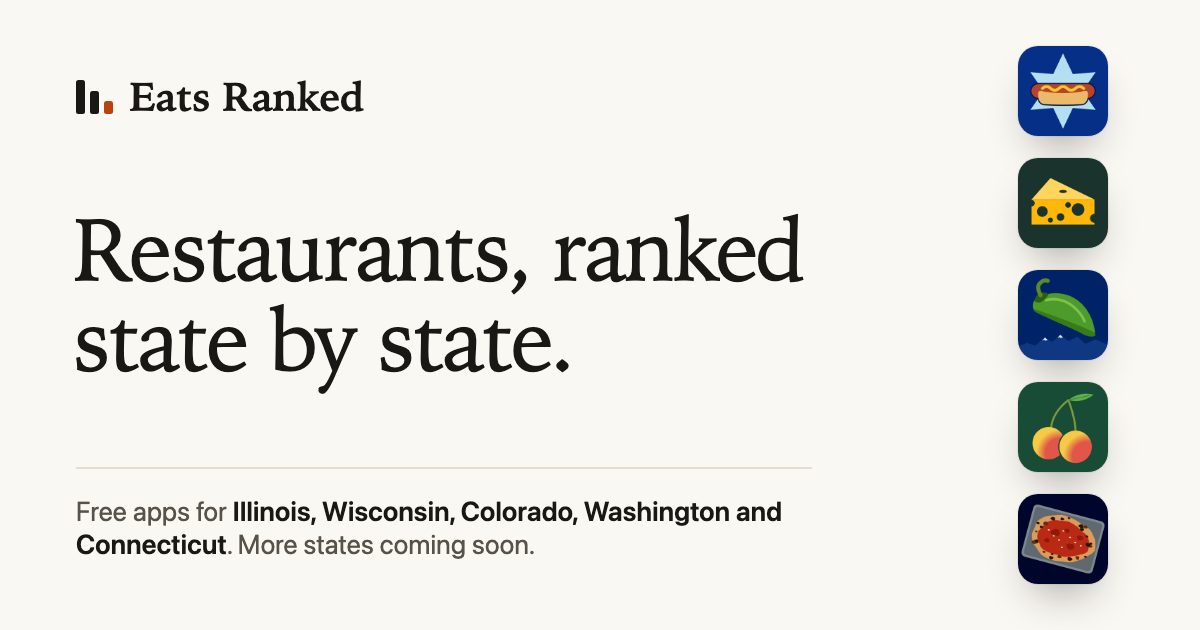
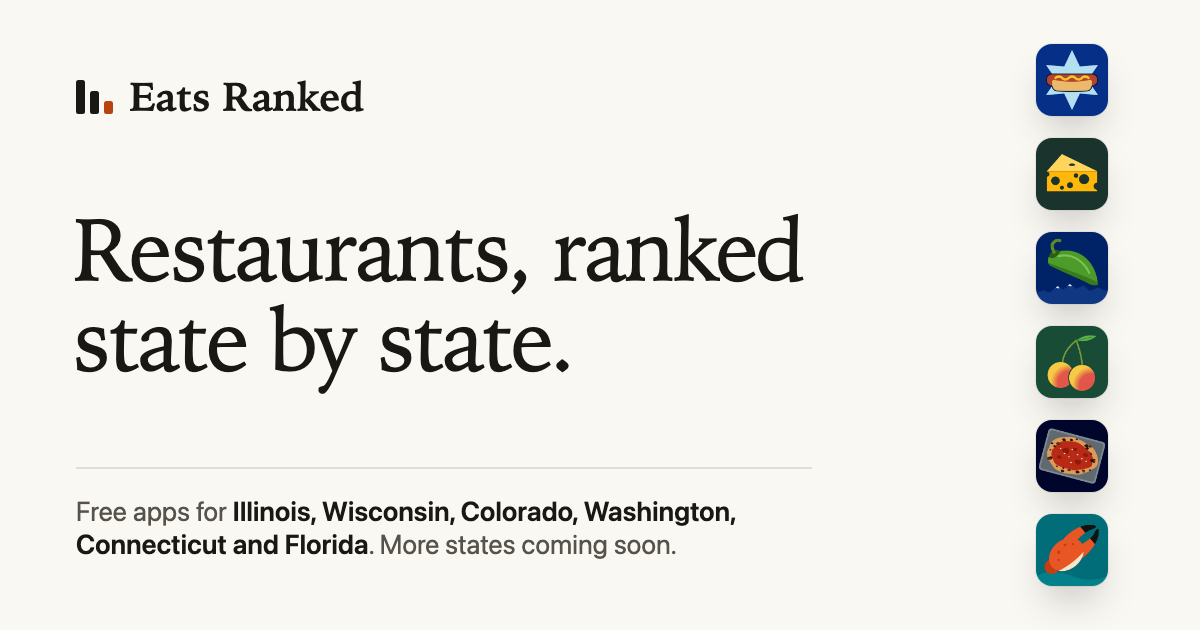
Florida: Florida Eats joins the hub
Card, map state and share image for Florida Eats: Restaurants (stone crab
claw icon, Gulf teal card #005F68 so the faintest card text passes 4.5:1).
Links to https://nickstrom5.github.io/florida-eats/ and its web search;
App Store: coming soon.

Changed region(s): [[0.8325, 0.0603, 0.925, 0.9349], [0.185, 0.8444, 0.555, 0.9048], [0.6167, 0.7841, 0.6475, 0.8444]]

diff --git a/docs/index.html b/docs/index.html
@@ -5,7 +5,7 @@
 <meta http-equiv="Content-Security-Policy" content="default-src 'none'; script-src 'self' 'sha256-qOhFsq0QMV2REqNwk5hGH5bZE9SkX6gt6yeyKdYPv+U=' 'sha256-N/fe+iuIbu+gMoSXR+XD1Gzu7bR5edsbTN507lK5oRE='; style-src 'self' 'unsafe-inline'; img-src 'self'; connect-src 'self'; manifest-src 'self'; base-uri 'none'; form-action 'none'; object-src 'none'; upgrade-insecure-requests">
 <meta name="viewport" content="width=device-width, initial-scale=1">
 <title>Eats Ranked: Restaurant Grades &amp; Rankings, State by State</title>
-<meta name="description" content="Restaurant apps from public records and open data: our own inspection grades where cities publish them, hand-checked local picks. Now in 5 states.">
+<meta name="description" content="Restaurant apps from public records and open data: our own inspection grades where cities publish them, hand-checked local picks. Now in 6 states.">
 <meta name="robots" content="index,follow,max-image-preview:large">
 <link rel="canonical" href="https://eatsranked.com/">
 <meta name="color-scheme" content="light dark">
@@ -18,18 +18,18 @@
 <meta property="og:type" content="website">
 <meta property="og:site_name" content="Eats Ranked">
 <meta property="og:title" content="Eats Ranked: Restaurant Grades &amp; Rankings, State by State">
-<meta property="og:description" content="Restaurant apps from public records and open data: our own inspection grades where cities publish them, hand-checked local picks. Now in 5 states.">
+<meta property="og:description" content="Restaurant apps from public records and open data: our own inspection grades where cities publish them, hand-checked local picks. Now in 6 states.">
 <meta property="og:url" content="https://eatsranked.com/">
 <meta property="og:image" content="https://eatsranked.com/og.png">
 <meta property="og:image:width" content="1200">
 <meta property="og:image:height" content="630">
-<meta property="og:image:alt" content="Eats Ranked: restaurants, ranked state by state, with the app icons for Illinois, Wisconsin, Colorado, Washington and Connecticut.">
+<meta property="og:image:alt" content="Eats Ranked: restaurants, ranked state by state, with the app icons for Illinois, Wisconsin, Colorado, Washington, Connecticut and Florida.">
 <meta property="og:locale" content="en_US">
 <meta name="twitter:card" content="summary_large_image">
 <meta name="twitter:title" content="Eats Ranked: Restaurant Grades &amp; Rankings, State by State">
-<meta name="twitter:description" content="Restaurant apps from public records and open data: our own inspection grades where cities publish them, hand-checked local picks. Now in 5 states.">
+<meta name="twitter:description" content="Restaurant apps from public records and open data: our own inspection grades where cities publish them, hand-checked local picks. Now in 6 states.">
 <meta name="twitter:image" content="https://eatsranked.com/og.png">
-<meta name="twitter:image:alt" content="Eats Ranked: restaurants, ranked state by state, with the app icons for Illinois, Wisconsin, Colorado, Washington and Connecticut.">
+<meta name="twitter:image:alt" content="Eats Ranked: restaurants, ranked state by state, with the app icons for Illinois, Wisconsin, Colorado, Washington, Connecticut and Florida.">
 <script type="application/ld+json">
 {
  "@context": "https://schema.org",
@@ -39,7 +39,7 @@
    "@id": "https://eatsranked.com/#website",
    "url": "https://eatsranked.com/",
    "name": "Eats Ranked",
-   "description": "Restaurant apps from public records and open data: our own inspection grades where cities publish them, hand-checked local picks. Now in 5 states.",
+   "description": "Restaurant apps from public records and open data: our own inspection grades where cities publish them, hand-checked local picks. Now in 6 states.",
    "inLanguage": "en-US",
    "publisher": {
     "@id": "https://eatsranked.com/#organization"
@@ -85,6 +85,11 @@
      "@type": "Organization",
      "@id": "https://nickstrom5.github.io/connecticut-eats/#org",
      "url": "https://nickstrom5.github.io/connecticut-eats/"
+    },
+    {
+     "@type": "Organization",
+     "@id": "https://nickstrom5.github.io/florida-eats/#org",
+     "url": "https://nickstrom5.github.io/florida-eats/"
     }
    ]
   }
@@ -494,6 +499,19 @@ details.tbl td.na{color:var(--ink-3);font-style:italic}
         </div>
         <div class="links"><a class="more" href="https://nickstrom5.github.io/connecticut-eats/explore/" rel="noopener">Search on the web<span class="sr-only"> with Connecticut Eats: Restaurants</span> <span aria-hidden="true">&rarr;</span></a></div>
       </article>
+      <article class="app" id="app-fl" style="--bg:#005F68;--ac:#F9C797;--fg:#FFFFFF" aria-labelledby="app-fl-h">
+        <div class="head">
+          <img class="icon" src="icons/florida.png" width="88" height="88" alt="Florida Eats: Restaurants app icon" decoding="async">
+          <div><p class="where">Florida</p><p class="plat">iPhone &amp; iPad · Free</p></div>
+        </div>
+        <h3 id="app-fl-h">Florida Eats: Restaurants</h3>
+        <p class="tag">Cuban sandwiches and cafecito windows, stone crabs, grouper shacks, oyster bars and fish camps we checked by hand, MICHELIN and James Beard honorees, and 52,000+ Florida restaurants with the state&#x27;s own inspection results.</p>
+        <div class="actions">
+          <a class="btn" href="https://nickstrom5.github.io/florida-eats/" rel="noopener">Website<span class="sr-only"> for Florida Eats: Restaurants</span> <svg class="ic" viewBox="0 0 14 14" aria-hidden="true"><path d="M4 3h7v7M11 3 3 11" fill="none" stroke="currentColor" stroke-width="1.8" stroke-linecap="round" stroke-linejoin="round"/></svg></a>
+          <span class="badge soon" title="Coming soon to the App Store"><small>Coming soon to the</small><b>App Store</b></span>
+        </div>
+        <div class="links"><a class="more" href="https://nickstrom5.github.io/florida-eats/explore/" rel="noopener">Search on the web<span class="sr-only"> with Florida Eats: Restaurants</span> <span aria-hidden="true">&rarr;</span></a></div>
+      </article>
     </div>
   </section>
 
@@ -501,16 +519,17 @@ details.tbl td.na{color:var(--ink-3);font-style:italic}
     <p class="eyebrow" aria-hidden="true">The map</p>
     <div class="sechead">
       <h2 class="h2" id="states-h">More states coming soon.</h2>
-      <p class="lede">Now in Illinois, Wisconsin, Colorado, Washington and Connecticut. We add one state at a time. Want yours next? <a href="mailto:nick@eatsranked.com?subject=Next%20state%20for%20Eats%20Ranked">Tell us which state</a>.</p>
+      <p class="lede">Now in Illinois, Wisconsin, Colorado, Washington, Connecticut and Florida. We add one state at a time. Want yours next? <a href="mailto:nick@eatsranked.com?subject=Next%20state%20for%20Eats%20Ranked">Tell us which state</a>.</p>
     </div>
     <div class="atlas" id="atlas">
       <div class="map" data-live="On the web now">
         <!-- State shapes: us-atlas (ISC License, Mike Bostock), from U.S. Census Bureau cartographic boundary files. -->
         <div class="stage">
         <svg viewBox="0 0 975 610" role="group" aria-labelledby="map-t" aria-describedby="map-d">
-          <title id="map-t">Map of the United States. On the web now: Illinois, Wisconsin, Colorado, Washington and Connecticut. Every other state is coming soon.</title>
+          <title id="map-t">Map of the United States. On the web now: Illinois, Wisconsin, Colorado, Washington, Connecticut and Florida. Every other state is coming soon.</title>
           <g class="land">
 <a class="st live" href="#app-co" id="st-CO" data-abbr="CO" data-name="Colorado" data-x="322.5" data-y="288.9" data-adj="KS NE NM OK UT WY" aria-label="Colorado: Colorado Eats: Restaurants, on the web now" aria-controls="pop-co" aria-expanded="false" style="--fill:#002868;--fill-dark:#FFD700"><path d="M277.1,237.2l8.8,1.2 15.2,1.9 19.8,2.3 3.9,.5 8.3,.9 14.7,1.4 3.1,.2 10.5,.9 9.4,.8 11.4,.9 13.1,.8-1.4,22.9-1.7,28.5-1.1,16.2-.5,10-.9,14.1-11.8-.8-5.4-.5-24-1.8-11.8-1.1-2.1-.3-19.3-1.9-12-1.3-.1-.2-10.7-1.3-13.7-1.6-14.2-1.9 1.2-8.6 .6-3.5 2-14.4 0-2.5 1.4-10.1 1.4-9.2 4.3-31.2 .4-2.7 1.2-8.6z"/></a>
+<a class="st live" href="#app-fl" id="st-FL" data-abbr="FL" data-name="Florida" data-x="784.9" data-y="518.4" data-adj="AL GA" aria-label="Florida: Florida Eats: Restaurants, on the web now" aria-controls="pop-fl" aria-expanded="false" style="--fill:#005F68;--fill-dark:#F28C28"><path d="M814.6,594.5l.9-1.4 .4,.6-.8,1-.5-.2zM812.7,596l.6-.9 .5,.5-1.1,.4zM807.4,599l3.6-2.3 .5,.5-3,2-1.1-.2zM793.7,604.2l1.1-2.2 3-2.2 1.6-1.5 1.1-.6 3,.8 .5,1 1.1,.6-3.1,1.6-.3-.4-2,.4-.1,.5-3.2,1.9-2.6,.7-.1-.6zM789.6,605.4l2.5-1-.3,1.1-2.2,.4 0-.5zM786.4,605.5l.4-.8 .8,0-.1,.9-1.1-.1zM777.4,558.3l.5,.3 1.9,3.8 2,.8 .5-.4 1,.3-1.6,.8-2.2-1.2-1.9-3.4-.2-1zM770.3,606.2l1.1-.4 .4,.4-1.5,.4 0-.4zM720.4,495.2l2-1.1-.3,.9-1.5,.7-.2-.5zM710.8,468.8l.5,1.4 1,1 .2,1.6 .7,1.4 1,.8 26.5-1.8 7.2-.5 17.9-1.2-.3,.5 .8,1.3 .1,1.4 .9,1.3 2.4-.4 .2-2.7-.1-1.9-1.1-2 0-3 1,0 .3-1.1 1.1,0 .6,.5 1.2-.1 1.8,.8 1.3-.2 2.3,.4 .9-.5 .9,.3 .4,.2 .1,2.2 .4,1.7 .6,.9 1.2,4.6 2.5,6.6 1.3,2.3 .4,1.7 2.6,4.8 3.2,5.2 2.1,3.3 6.5,8 3.2,3.4 1.5,2.6-1.1,1.3 0,2.3 .8,2.9 .8,1.8 1.6,2.6 3.3,4.7 2.7,5.1 1.3,2.5 2.5,3.9 .2,.6 1.8,3 2.1,4.7 .7,5.1 0,2.8 .3,4.1 .1,4 .7,5.5-.1,4-.4-1.2-.7-.4-.9,.8-.3,1.9-.4,.6 .1,1-.4,.9 .1,1.5 .5,1.5 .4,.2-.4,1.1-.7,.6 .2,.7 1.5-1 1.6-4.9-.2,2.5-1.8,4.6-.4,1.7-3.7,5.1-1.5,1.5-.3-.1 3-3.7 .4-1.1 .2-2.2-2.1-.1-2.4,.9-1.6,1.1-1.4-.6-1.3,.4-.4,.9-3.6,1-1.4-.8-.8-1.2 .1-2.5 .5-.2-1.4-2.6-1-.8 0-.7-1-1.3-.6-.2-.7-1.6-1.2,.2-1-1.9-1.8-.3-3.5-1.6-1.2,1.2-1.6-2.2-1.5-2.7-1.3-4.5-1-1.8-1-.9-2.3-1.1-.2-.9-1,.2 .3,.8-.9,.3-1.2-3.3-1-.9 1-.5 .8,.6 .3-3.1-.3-1.7-.7-.2 .1-1.5-.8,.2-1.1,1 1,2.7-2,.9-.2,1-.2-1.4-.6-.9-1.5-1.6-2.4-3.1-.9-1.8-2.3-3.2-2.9-2.9-1.3-2 .9,.8 .9-.7 1.1-1.8 1.7-3.7 .8-.5 .6-1.8-.6-1.3-1.6-.2 .7,2.1-1.8-.3 .4-.8-.7-1.9-2.9-1 .2,1.3-.7,.6 1.2,.6 .9,0 1.1,2-.6,.9 0,1.6-1.6,.5 .4,1.6-.5,.3-.4-2.1-1.3-1.7-.9-.6-.6-1.4 0-3-.5-1.2-.7-3.1 .6-.1 .2,1.7 .6,1.7 .6,.1-.2-1.7-.6-.5 .7-1.5 1-5.1 0-3.6-.6-1.2 0-1.1-1-.4 .2-.9-.9-2 .6-1.3-1.8-2 .2-.6-.7-1-.8,.1 .1-1.6-.5-.2-3.4,0-1,1.2-.9-1.8-.2-1.2-1.6-.3-.3-1.2-1.1-1.6-1.5-.2-.5-.8-1.8-.7-.3-2.1-.5-1.3-.8,0-1.7-.8-1.2-1.3 0-.6-1.3-1.6-1-.7-2.2-.9-2.9-1.1-2-1.2-1.9,.5-.6,.5-2.3-.3 .1,.7-1.7,1.6 .8,1.8-.2,.7-1.7-.1-.4-.4-1.6,.6-2.3,2.2-.5,0-3.6,2.9 .2-1.2-.8-.2-1.4,1.8-2.5,.2 1.1,.9 .1,.7 1.2,.3 4-2.3 1.7-1.8 .2,.2-1.5,1.8-4.9,3-3.7-1.7-1.4,0-1.2,.7-1-1.7-.7-2 .5-1.1 .3,2 .5,1.7 .6,.4 .6-.9-.1-1.6-1.5-2.2-.9-.8-1.7-.3-1.1-.7-1.3-1.2-2-.7-1.7-1.2-2.1-1.1-2.5-1-4.5-1.2-2.8-.4-5.3,0-2.3,.3-3.2,.8-4.5,1.4-2.2,.5-.5-.1-4.3,1.4 1-.6-.6-.3 .8-.7 .3-1.5 1.1-.6-.9-.5-.8-1.2 .8-2.8-.3-1-2.6-1.3-.5-.9-1.7-1.7 .7-2.3-.3-.7 8.8-.9 12-1 12.1-1.3 17.2-2z"/></a>
 <a class="st live" href="#app-ct" id="st-CT" data-abbr="CT" data-name="Connecticut" data-x="888.3" data-y="189.1" data-adj="MA NY RI" aria-label="Connecticut: Connecticut Eats: Restaurants, on the web now" aria-controls="pop-ct" aria-expanded="false" style="--fill:#000E2F;--fill-dark:#B3261E"><path d="M871.2,184l7.8-1.7 3.2-.7 .1,.9 .8-.4 0-.7 15.6-3.7 .1,.3 2.2,7.8 1.2,5.3-.6,.3 .5,1.4-.4,.7-1.5,0-1.1,.8-1,.2-.7,.6-.9-.3-.4,.8-2.6,1.4-1.2-.1-1.4,1-.5-.3-1.7,.5-.2,.6-1.1-.3-2.4,1-.3-1-1.2,2.5-.7,0-.9,1.7-.9-.2-1.1,1.4-.5-.1-1.3,.8 0,1.1-1.7,.7-1.2,1.4-.4-.3-.7,.9-.1-.6-1.7-1.7 3.4-3.4-1.6-1.6-1.2-7.3-1.7-9.7z"/></a>
 <a class="st live" href="#app-il" id="st-IL" data-abbr="IL" data-name="Illinois" data-x="611.6" data-y="266.9" data-adj="IA IN KY MO WI" aria-label="Illinois: Chicago Restaurants: Ranked, on the web now" aria-controls="pop-il" aria-expanded="false" style="--fill:#0E3386;--fill-dark:#B3DDF2"><path d="M576.5,264.7l.7-.3 .1-2.5-.8-1 .9-1.5 1.7-.8 1.1,0 1-.8 .3-2.3 0-1 1.5-2.3 .6-.4 .2-2.6-.1-1.3-.8-1.3-.9-.2-1.3-1.7 .6-1.5 .3-2.4 1.2-.6 .8,.2 1.2-.7 2-.1 1.3-.3 1.1-1.3 2.1-.3 .8-1 1.1-.6 0-2.1 .3-1.3 .6-.8 1.4-.9 .5-2.4-.3-1.2 .4-1-.5-.9-.1-1.7-.9-.8-3-1.4-.8-1.2 .2-1-1-1.2-1.3-.7-.4-.7-1.3-.6 0-.8 9.4-.6 13.7-.7 7.7-.4 11.1-1 5.3-.3 .1,2.4-.3,2 .7,2 1.2,1.8 1.3,1.5 .1,.6 1.2,3.1 .3,1.4 1.5,2.6 .8,9.4 1.7,19 1.2,14.9 1,10.5-.8,.3-.3,1.8 .6,1-1,1.2 .3,1.4 1.1,1 0,1.6 1.3,.7-.5,2.2 1.1,1.8-.3,1.9-1.2,.8-.4,.6-.5,2.3 .1,.8-1.4,.9 .3,.6-.8,1.8-.4,.2-.7,2.1-.5-.6-.4,.8-.4-.6-.8,2.1 1.1,1.5-.7,.2-.6,1.2 .8-.4-.1,.7-1.2,.8 .6,1.4-.8,1.3 1,.5-1.5-.1 1.4,2.3-.5,1.5-1,.7-.6,1.2 .6,1.9 1.4,1.3-.3,1-3.5,.7-1.3,1.3-.9-.5-1.1,1-.5,2.4 1.3,1.8 .6,1.1-.5,1.8-1.6,.2-1.6-1-1.8-.4-1.4-.9-2.3-.7-1.3,.1-1.4,1.5-.3,1.1-.8,.7-.3,1.6 .9,.8-1.1,.2-.1-.8-1.2-1.1-.9,0 .9,1-.2,.8-1.9-1.1 0-.9-1.7-2.6-.1-1.2-1.1-.8 .5-1 .9-.4 .2-1-.4-1.1-1.5-2.1-.2-1.1 .8-.3-.8-.9 0-1.2-1.3-.5-.7-.8-.9-.2 .1-.6-1.5-1.3-.7-.1-1.2-1.1-1,.9-.9-.3-.4-.8 .8-1-1.3,.1-1.2-1.2-.5,.1-.8-1.1-.8-.1-1.3-.9-.6-1-1.5-1.2-.4-1.5 .4-2.4 .8-1 .5-2.4 1.1-1.7 .1-1-.7-1.8 1.5-1.8 .1-1.2-2.5-1.4-1-.1-2.6-.8-1.5,2.2-.7,.2-1.4-1.2-.4-1.7-.7-1.2 .5-.9-1-3.6-2-2-3.6-2.3-1.2-2-.8-.1-.7-1.3-1-.5-2.3-2.2 0-1.5-1.2-.9-.4-.9 .5-1.2-1.5-2.4-.3-2.1-.1-2.5 .7-2.4 .7-.9z"/></a>
 <a class="st live" href="#app-wa" id="st-WA" data-abbr="WA" data-name="Washington" data-x="130.4" data-y="59.1" data-adj="ID OR" aria-label="Washington: Washington Eats: Restaurants, on the web now" aria-controls="pop-wa" aria-expanded="false" style="--fill:#1F4D3A;--fill-dark:#F7C948"><path d="M93.2,50.9l.8-1.9 .9-1.2 .4,1.1-.5,1.3 .9,.7-1.5,.6-1-.1 0-.5zM98.7,24.6l.3-.8 .8,1.1-1,.2-.1-.5zM98.9,20.3l.3-.1 .8,2.5-.7-1.1-.4-1.3zM97.7,23.5l.5-.5 .4,1.1-.9,.4 0-1zM95,31l2.2-2.3 .5-1 .8,0 0,1.4 .8,1.5-.8,.1-.5-.5-2.2,1.4 1.3,.1 .3,1 .1,1.6-.3,.3-.1,2 1.2-1.5 .6,1.3 .7,.5-.1,1.8-.8,1-.6-.5-.2-1.7-1.2,.1 .2-.6-.7-1 .6-1.7 0-1.2-.9-.1-.9-2zM95.5,17.9l2,1.8-1.4-.7-.6-1.1zM93.6,19.6l1-.3-.1,.7-.9-.4zM95.2,13l.9,.8-.9-.2 0-.6zM91,21.2l.5-.4 1.1,.3 .5,1.4 .9,.4-.6-1.5 2.5-1.5 .6,.2 1.6,1.7-1.2,.6 .2,1.4-.4,1.1-.7,.3-.4,1.4-.9-.1-.5-1.2-1.6-.4-1-1.1-.6-2.6zM91.1,19.1l.7,.3 .9,1.4-1.6-1.7zM183.6,35.9l-3.1,13.7-2.2,9.1-3.8,17.1-3.7,16.6-.7,1.7 .8,1.5 .4,2.9-.9,1.4 .1,2.5-18.6-4.4-13.2-3.2-.4,.4-2.1,.5-1.9-.6-3.8-.2-1.1-.7-.9,.2-1,.9-2.1-.3-2.6-.1-1.9,.4-1.6,.1-.9,.6-3.1-.1-1.5-.5-.6-1-1.2-.5-1,.4-2.8,.3-.7,.5-.7-.5-2.2-.4-1,.6-.8-.1-.1-1.6-1.6-1.2-1.1,0-1.8-1.3-3.3-.1-1.1-.6-.9,0-.9,.7-3.4,.7-1.3-.2-1.1,.4-1.3-.4-.6-.8-1.4-.5-2.8-1.7-1.1-1.3 .7-2.7-.2-.8 .5-1.2 .1-2.1-.5-1.8-.1-1.3-2.5-3.1-.8-.3-2,.4-1.3-.4-.7-1.1 .4-1-.6-1.1-1-.1-1.8-.7-.6-1-.7,.4-.7-.4-1.3,.7-.5-.3-.7-1.7-.5-.3-1.2,.7 1.1-2.4 .7-2.3 .7-3.1 .4,1.3-.7,1.8-.5,2.6 .9,.3-.1-1.6 .4-1.1 .5,.6 1.1-1-.3-2.5 .8-.6 1.7-.6-.7-1-.5,.4-1.5,.2-1.1-1.4 .4-1.4 0-2.2 .7,.3-.2,.7 2-.7 1.9,0-.4-.7-1.6-.9 .1-.9-1.3-.7-.6,.3-.1,1.8-1,.1 1.1-3 .3-2.4 .2-2.6-.8-1.9 .7-4.2 .3-4.7-.6-.7 .2-1.1-.8-1.4-.7-.7-.2-1.9 .7-2.9-.2-1.8 .5-.1 1.6-3-.7-1.4 1.2,.2 1.1,.9 2.2,2.6 1.3,1.1 .6,0 1.7,1.6-.2,.3 1.6,1.3 1.7,.8 2.4,.4 1.4,1.2 2.3,.5 .5,.8 2.1,.6 1.6-.7 1.1,1.4 .2,.9 1.8,.3-.3,.5 .6,.7-.3,1.1 .6,0 .5-.9-.6-.9 .2-.7 1.9-.2 0,.6-.9,.4 .2,1.1 1.4-1-.1,2-.9,0 .4,1.2 0,1.3 .6,.6-1.4,0-.1,.8-1.1,.4-.5,1.2-1.2,1.2-.2-.4 1.2-2-.9,.1-1.4,2-1.5,1-3,2.8-1.4,2 1.9,.7 2-.3 .8-.6-3.1,.4-.8-.8 3.5-3.5 2-1 1.7,0 .6-1.3 1.2-1.1 1.5-1 .5,.2 .1-2 .9,1.1-.4,3.7-1-.3 .4,.9-.5,1.3 0,1.4-.9,.5-.3,.7 .7,.5-.8,.7-.7,1.6 .1,.4-.9,1.1 .1,.9-1.2,1.2-1-1.8 .9-1.7-1,.5-.7,1.1 .1,1 1,1-.6,.1-.8,1.4-.7-1.2-.5-2.3 .8-.5 .4-1.1-1.5,1.2 0,1.5-.6,.8 .8-.1 .2,1.4 1.4,.8 1.1-1.1 .6-.1 1.7-2.2 0-.6 1.1,1.5 .6-1 1.6-.3 .3-3-.3-2.3 1.4-.4-1-1.4 1.3-1.3 .2-1.8 1-.6 1.1-2.1 1.4-.3 .2-1.1-.6-.7-.8-2 .5-1.3-.3-1-.8-.3-.6,.8 .1,1.4 .8,1.8-1.1-1.9-.7-.3 0-1.1 .5-1.4 1.1-.2 .7,.6 .7-.6-.3-1-1.2-1.2-.4-1.1 .2-.7-1.6,.1-.4-1.1 .5-1.1 1.1,0 .6,.5 .2,1 1,.2 .1-2.1 .9,.1 .5-.6-.8-1.5 .1-1.3 .7-.7-.5-.7-1-.2-1.3,.5 .6-.8-.8-.5 .2-1.5-.7-.9 .9-.8-1-.5 1.2-1.1 9.6,2.7 5,1.5 7.6,2 7.5,2 10.4,2.8 12.7,3.2 13.7,3.3 17.1,4z"/></a>
@@ -518,7 +537,6 @@ details.tbl td.na{color:var(--ink-3);font-style:italic}
 <path class="st" id="st-AL" data-abbr="AL" data-name="Alabama" data-x="674.1" data-y="441.0" data-adj="FL GA MS TN" role="img" aria-label="Alabama: coming soon" d="M648,492.4l3.8-.9 .1-.5 1,.8-.6,.5-.7-.2-2.6,.5-1-.2zM641.6,384l-.1-.3 14.4-1.1 10.6-.7 18.7-1.9 4-.3 .7,2.7 3.4,11.6 9.2,33 .6,.4-.2,.7 1,.8 .6,2.9 .8,1.3 1.4,1.2 .4,1.6 .7,.6-.5,2.3 1.4,.4 .9,.7-.7,1.1-1.4,1.1-.8,1.1 .4,1.1 0,1.7-.2,1.7-1,2.4 .7,2.4 0,.8 1.5,1.6 .5,2.2-.4,1.2 .2,.9-.3,1.6 .2,1.5-.4,.5 .4,2 1.6,1.6 .9,2.4-17.2,2-12.1,1.3-12,1-8.8,.9 .3,.7-.7,2.3 1.7,1.7 .5,.9 2.6,1.3 .3,1-.8,2.8 .8,1.2 .9,.5-1.1,.6-.3,1.5-.8,.7 .6,.3-1,.6-2.6,.9-3.5,.8-2.4,.2 .4-.8 .9,.4 2.4-.7 .2-.7-1.9-1.8-1.3-.6-.7-1.7 .5-1.2-.3-1.8-.6-.9-1.4-.5-1,1 .2,.7-.7,2.4 .2,3.1-.5,1.3-1.1,.2 0-.8-1.4-.6-1.1,.4-.3-.4-1.2,.5-1.4-11.2-2.4-18.8-.5-4.5 .3-11.1 .5-30.7 .4-17.1 .3-9.9-1.1-.6-1-1.6z"/>
 <path class="st" id="st-AK" data-abbr="AK" data-name="Alaska" data-x="106.6" data-y="509.9" role="img" aria-label="Alaska: coming soon" d="M104.2,551.6l.4-1.3 .5,.2-.9,1.1zM99.1,569.9l.4-.6 .6,.4 0-1 1.7-1.3 .6-.8-.2-.7 1.2-.7-.5,2.3 .6-.5 .9,.9 .6-.4-.3,1.6-1-.5 .2,.6-1.4-.3-.2,1-1.4,.6-1.8-.6zM95.1,582l1.2-.6 .6,.9-1.2,.1-.6-.4zM93.3,575.4l.7-1.1 1.7-1.2 1,.1 .4,1.2 .2-1.2-.4-1.3 .9-.6 .7,.4 1-.1-.5-.9 1.5,.8-.8-.8 1.7,.2-.1,.7 .8-.1 1-.9 .8,1.7-.7-.2 0,1.4 1.3-.2-.7,1.6-1.8-.6 .6,1-.9,.9-1.5,.7 1.3,.2-1.5,.6-.3,.7-.5-.7 .3-.9-1.5,2.6-.9,.8-1.1,.2 1.3-1.6-.5-.1 .7-1.6-2.1,2.5-1-1.2 0-1.5-1.1-.8 0-.7zM93.1,582.8l1.2-1.3 .7,.4-1.6,1.2-.3-.3zM88.9,587.6l.7-.7 0,1.2-.7-.5zM71.8,593.7l.1-.9 .5,.7-.6,.2zM71,591.7l.7-.5-.1,1.7-.6-.1 0-1.1zM68.2,593.5l.8-.9-.4-.6 .6-.6 1.1,.3-.3,.6-1.8,1.2zM65.8,590.1l.7-.6 1.7,.6-.2,.8-.8-.8-.1,1.7-.7-.7-.5,.5-.1-1.5zM67.5,564.2l.2-.9 1.6-.8-1,1.8-.8-.1zM60.9,591.2l.4-.4 1,.7-.8,.3-.6-.6zM58.3,592.4l.9-.2-.5,1.1-.4-.9zM66.1,523.9l1.2-.2 0,.6-1.2-.4zM56,595.9l0-.3 2.1,1.1-.6,.3-1.5-1.1zM44.6,597l1.3-.1-.1,.5-1.2-.4zM42.7,595.5l.3-.4 .9,.9-.8,.7-.4-1.2zM40.6,595.9l1.2-.3 .7,1.1-1.8,.1-.1-.9zM44.2,547.5l2,.4 1-.8 1.3,0 1-.4 .1,.9 .8,0 .5,.9 .1,2.7-1.8,.1-.8,.7-.7-.9-.9-.2-2.4-2.2-.2-1.2zM31.3,600.8l2-.6 .5,.2 2.1-1.9 .8,.6 .2-.6-1.1-.4-.4-.6 .7-.8 1.8-.2-.1,.7 .7,.3 .7-.7 .6,.7-1.8,1.4 2.1-.7-.1,.6-.9,.6-1.3,.2-1.2,1.3-1.8-.3-.9,.5-1.7,.4-.9-.7zM50.7,504.5l2.2-.8 2.6-1.4 3.6-1.6 2.1-.7 2.7-.5 1.8,.2 0,1.1-.8,2 .3,1.1 2,.3 1.3-.1 1.1,.7 .9-.3 .9,.6 1.1-1.7 1.8,.3-.4-.9-1.2-.6-1.3,.3 .3-1.3-1-1.8-.7-.2-.3-1 1-.6 .8,1.4-.3,1.1 1.4,1.8 .8-.2-1.5-2.1 .4-1.3 .9-.7-.8-.6-2.2,.3-3.7-1.7 .2-1-.5-2.3-3.3-4.4-1.5-1-.6-1.2-1.4-1.3 1-.2 .6-.9 .5-2.5 2.5,.6 3.2-.1 2.3-1.3 1-1.2 .6-2.3 .6-1.5 2.3-2.8 1.3-.8 1.5,.4 1.4-.5 1.7-1.2 1.7-1.7 1.3-.5 1.3,.8 2.5-.6 .9-.7 1.7-2.3 .8-.1 2.4,1.1 .2,.5-1.3,1.1 .1,.9 .8,.2 .4-.9 .9-.7 .4-.9 1,.9 .1,1.6 1.1,.4 .8-.9 1.7-.3 2.7,.7-.6,1.1 .1,.6 1.9,.4-.4,1 2,.3 .5-.6 1.5-.1 .1,.4 2.4-1 1.9,.7 .5-.2 .8,.9 .3-.4 1.5,1 1.5,.2 .7-.3 2.8-.1 1.4,.8 1.3,.4 .9-.2 1.9-1.4 1.6-.5 5.6,2.6 1.3,.1 14.4,72.7 1.9,.2 .1-.7 2.1,.6 .8-1.5 2.3-.6 .1,2.2 .8,.6 1.4,.3 .6,1 4.9,3.2 1.3,2.4 2-2.6 .9-.3 .2-1-.4-1.4 .7-.2-.5-1 1.4-.9 1.5-1.5 2.3,1.3 .1,1.1 .8,1 1-.1 1.8,1.2 .9,1.2 1.9,.5 2.6,1.7-.3,.5 1.7,1.4 .8,1 1.2,.9 2.1,2.2 2,1.7-.2,1.1 1.4-.1 .2,1.4 1.2,.2 .7,1.5 1-.5 2.6,.8 1.4-.1 1.6,.4 .5,.7 1.4-.3 .8,1.4-.1,1.3 .7,1.3 1.4,2-.5,3.3-1,2-.7-.6-.4,.5-1.9-2.8 .7-1.1-.6-1.8-.9-1.5-.8-.4 1.3,1.7 .3,2.3-.3,.9-1.2,.1-1.5-.5-1-1 .2-1-.5-2 0,1.9-.5,.5 .3,.9-1.1-.3-.5-.8 .2-1.2-.4-1.6 .1-1.3-.6,1.3 .4,.7-.9,1-.9-1.3-1,0-.3-.8 .5-1.1 .8-.4-.6-1 .8,0-1.9-.9-.3-.9-1.1-.3-1.4-1.2-2.5-.4-.1-1.4-.8-1.7-.8-.1-.1-.7 2.2,.4-2-1-.6,.1-2-1.6-.6-1.7-.1,.7-2.1,.3-1.2-1.7-2.2-2.3-1.3-2.5-1.2-.7-.3,.5 1.4,1.1 .4,1.2 1.6,2.1 1.3,3.2-1.4-.3-.6-.9-.9,0-1,.7-.5-1.8-1.1-1.3-.5,.6-1.2-.4-.4-.9-.4,.7-.9-.3-.1,.5 1.3,.1 1.4,.9 .6,0 1.3,2.1-1.2,1-.7,0-.4,.9-1.4-1.1-.6,.2-2.2-1-1.8-1.1-.2-.7-1.8-1.1-1.5-.3-1.3-.6-2.2-.6-2-.9 .3-.9 .6,.1-.6-2 .1-1.4-.6,1.9-1.8,1.5-2.4,.1-2.3-.7 .5-1-1.3,.5-3.8-.3-1.1,.1-5.3,1.6-1.3,1.8 .4-1.2 .8-.9 .6-.1-1.1-.8-2.4-.1 .6-.5-.9-.2 .3-1.1-1.5,1.2-2-1-.8,.2 .8-1.1-1.4,1.1 .1,.8-2.2,.9 .1-1.6 .6,.1 2.4-1.3-.5-.9-1,.8 .5-1-1.7,.7-.9-.4 1.9-1.1-1.4,.5-.8-1.1 .3-1.3-1.2,1.6-.5-1.4-.3,1.5-.7,.5-.5-.6-.8,1.2-1.6,.3 .6-2.2-.8,.1-.6,2.4 1,.2-.7,2.1 .9-1 .7,1.2-.6,1.7 1.4,1.3-.8,1-.9,.1-.5-1.6-.2,1.6-.8,.3-1.9-.4-1.1,1.1 .3-1-.5-1.1-.1,1.6-1.1-.2 .2,2.5-1.2-1.1 .4,.9-1.6,2.1-.3,.1-.5-1.4-.2,1.3-.5,0-1,1.7-1.2,.1-.4-.5-.8,1-.6,0-1-.7 .4-1.3 1.4-.6 2.1-2.5-.5,.1-1.5,1.2-1.5-1 .5-2.1 1.2-1.6 .4-2.6-.6-1.4 1.4-.6 2.4-2.1 .8,1.1 .8,.2 .8-.9 2.6,.6-2.5-1-1.4-1 1.3-1.9 1-.6-.7-.3-.9,.9-.4,1.2-1.8,.1-.7-.4-1.4,1-.5,1.1-1.2,.3-1.2,1.3 .4,1-.5,0-1.7,1.8 .3,.9-1.9,1.8 .6,.8-.9,1.6-1.6,.1 .8,.3-.1,1.1-2.9,1.2 .2,.9-1.6,.5-.2,2.8 .4-.4 1.3,.1 1.4,.7 .5,.8-.5,1-1.1,1-.9,.1-.7,.9 .3,.9-.9,1.9-1.1,.6-1,.1-1.7,.7 0,.7-.9,.3 .1,.9-1.3-.5-.6,1.8-1.3-.2 .1,1-.8-.3-1.5,1.4 .9-.3-.1,1.2-1,1.6-1.4,.1-1.4,1.5-.8-.8-1.4,1.9-.2-.5-.8,.8 .1,.8-1-.5-1,.3-.7,1 1.5,1-1.6,1.1-.2,.8-.6-1-.1,1.1-.8-.4-.3,.5-2.7,.5-.3,1.5-.9,.6 .7-1.8-1.1-.4-1,.9-1.5,.8-.8,1-1.4-.6-1.8,1.2-1.2-.2 .8-2-1.1,0-.7,1.8-.9,1.2-.7-.2 .3,1-.9-.5-.5,1-1-.4 .1-1.6-.5-.5-.5,.6 .5,.8-.1,1.3-1.3,.2-.8-1.6-.8,.4 .8,.9-1.7,.9 .8,.4 .5,.9-1.2-.8-1.3,.9-2.2-.4-1.3,.5-.2,.5-1.4,.4-.9-.4-.2-1.3 1.2-.5 .9-1.4 3.2-1 1.6,.2 .8,1.4 .3-1.9 2-.2 1.6-1.9 1.7-1.7 2.2-1.3 2.9-.7 1.6,.1-.7,1.5 .5,.8 .2-1.2 1.3,.3 .9,.9 .3-.5-1.5-1.4 1.1-2 2.7-2.2 1.3-.5 2.6-1.5 1.2,.5 .1-1.5 1.4-1.9 1.3-.9 1.7-1.6 .8-4.4 .8-.3-.6-.9 .5-1.8 1.7-1.6 .3-1.3-.5,.1-4.3,1.8-1.5-1.5 .3-1.7-1.2,1-.5,1.3 .5,1.8-.8,.7-.7-.4-1.1-2.8-1.3-1.4-.8,1.1-.6-.9-1-.6 .1-.9-1.9,1.1-2.5,1-.2,.6-1.7,.7-.6-.9 .8-.8 .1-1.6-.8-2.5 .5-.8 1.1-.8-1.1-3.7-.9-1.9-.5,.1-.2,1.1-.8,0-1.6,.8-2.3,.2-1.8-.6-.1-1.5-.6-.5-1-2-1-.5-.5-.8 .8-.6-1.6-.1 1.8-1.5 .1-1.2-.6-.9 .8-.2-.9-1.5-.4,.7-.7-.2 0-1.4-.9-.7 0-.7 .7-.5-.5-.5-.9,.1 .2-1 1.3,0-.8-1.3 1.6,0-.2-1.2 .5-1.1 3.8-3.7 0-.8 1.2-2.4 .9-.7 1.1-.3 1.3,.6 1.3,1.6 1,0 1.5-1.2 1.7-1.8 .8,.4 1.6,.2 1.6-.3 1.5-2-.4-2.6 .1-1.1-.9-1.4-.8-.3 .5-.8 1.3,.3 .8-.7 .1-.9-1.2-1.7-.7,1.1-1-.3-1.8,.7-1.4,1-1.1,1.5 0-1.4-.9-1.2-.5,.3 .8,1-.8,0-1-.9-2.8-.3-2.2,.5-3.9-1.9-.6-1.3 .5-.9-.8-1.2-.4-1.3 .8,.3 1.2-1-.6-.7-2.9-1.1-1.7-1.7 0-.7zM24.9,603l1.7-1.3 .2-.8 .9-.5 1.2,.3-.3-.7 .7-.9 1.7-.4 .9,.6-.5,.9-2.2,.7-1.2,1.3-3.4,1.1 .3-.3zM28.5,573.3l1.1,.3-.4,.5-.7-.8zM20.4,602.1l1.2-.1 .1,.9-1.2-.3-.1-.5zM26.8,568.3l1.2-.1-.7,.6-.5-.5zM16,603l1.2-.5-.1,.8-1,.2-.1-.5zM34.4,517.8l.9-1.7 .2,.9 2.2,1.5 1.7-.6 1.1,.9 0,1 1.5,1.4 2.8,1.2-.9,1.1-1.8-.5-1.3,1.5-.4-1.3-1.4-2.1-1.5-1.4-.8-.3-1.5,.6-.8-.7 0-1.5zM7,603l1-.4 .6,.3-.6,.6-1-.5zM23.4,539.9l.8-.6-.1,.7 2.1,2.3-1.8-.9-1-1.5zM0,602.3l1.1,.5 .9-.1 1.1,.9 1.9,.5-2.2-.1-2.5-1-.3-.7zM-6.2,601.2l1.6,.2 3.6-.1 0-.8 1-.6 .7,1-1.3,.7 .4,.7-1.8,.2-1.5-.3-2.7-1zM-10.2,599.4l1,.6-.6,.8-.6-.4 .2-1zM-11,601.2l1.4-.2-.1,.5-1.1,.3-.2-.6zM-15,601.4l1.4-1 .5-1.1 1.1,.2-.5,1 1.4,.3-.4,1-.8-.4-1.9,.5-.8-.5zM-18.1,599.6l2.5,.1 .4-.8 .6,.4-.8,1.2-.8,.1-.4-.6-1.5-.4zM-20.1,597.5l1.4,.2 .4,1.1-1.2,1.2-.5-1 .7,.1-.8-1.6zM-30.2,592.5l.9,.1 .4,.5-1.1,.5-.2-1.1zM-35.2,593.3l1.2,.8 .9,2.1-.9-1.5-1.2-1.4zM-40.8,588.6l1.7-.1 .7-.8 .3,.6-2.4,1-.3-.7zM-55.8,576.6l1.5-.1-.1,1.3-1.4-1.2zM-57.6,570.9l1-.1 1.9,1.1 .8,1.9-.8-.6-.5,.2-1.2-.3-.5-1.8-.7-.4zM197.4,577.4l.8-.7 .5,.5-.5,.7-.8-.5zM196.5,577l.1-.9-.4-1.1 .9,.3 .5,1.5-1.1,.2zM194.7,574.9l.1-.5 1,.6 0,1.5-1.1-1.6zM187.6,570l.2-.4 .8,1.1-1-.7zM187.1,569.1l.3-.9 1.5,0 .1,1-.8,.5-1.1-.6zM186.2,576.9l0-.8 1.4-.6 .6,.5-.2,.9-1,1-.1-1-.7,0zM184.9,573.1l.6-1.9-.6-.2 .1-1.2 1.8-.3 1.8,1.9 1.4,.4 1,.8 1.7,1.9-1.3-.3-.2,.8 .8-.4 1.4,.7 .2,1.2 .8-.6 .3,.5-.2,1.7 .5-.5 .8,1.7-.1,.8-1.3,.3-1-.2 .5-.8-1.4-.4-.4-1.6-.6,.5 .3,1-.8-.1-.5-1.2-.9-.1 1.9,2.4 .6-.6 .9,1.1-.8-.1 .7,.9-.9,.1-1.9-1.5-.9-1.9-1,.4-.2-.8 1.4-1.2-1.2-1-2.4-1 .5-.6-.2-1.4-.6,1.2-.6-.4zM182.7,574.2l1-.2-.5,.7-.5-.5zM180.3,567.2l.4-.9 1-.2 .7,.8-.3-1.2-.7-.4 .5-.7 2.5,0 1-.3 1.3,1.2 2,1.2-.9,1-1.4,.2-.1,.7-1-.1-.9,.7-.5-.7 .1,3.8-.6,.9-.7-.7-.7-1.7 0-1.5-.6,0-1.1-2.1zM174.6,555.9l1.2,.8 .3,.8 .5-.4 1.6-.2 .2,.6 1.8,1.7 .6,1.4-1.2-1.3-.9-.4 .6,1 1.2,.8 .9,1.9-1.8,3.3-.5,.1-.6-1.4 .4-1.5-.9-.8-1-1.4-.1-.9-1.7-2.7-.6-1.4zM173.9,564.8l.7-1.9 1.7,.7 .9-.2 .4,1.2 2.1,3.7 1,3.6 .1,.8-.7-.4-2.6-2.9-2-.9 .6-.1-.1-1.4-.7-.4 .2-1.3-.7,.3-.9-.8zM173.5,565.9l.1-.9 1.2,.7 .1,1.7-.9,.4 .2-1.1-.7-.8zM169.1,561.4l-.2-1.1 .6-.8-.4-.9 .8,.6 1-.5 .6-.9 1.7,.8 2.1,.1 .5,.9-.8,.5 .9,.3 1.2,2.3-1,.5-2.4-1 .4,1.5-.3,1.1-.8-.1-1.4-1.2-.4,.1-1-1.6-1.1-.6zM120.8,555.1l.4-1.1 1.4-1.8 1-2.2 .7,.9-1.9,2.9 .5,.3-2.1,1zM120.4,551.4l.4-1.9 .8-.9 0,1.7-.4,1.8-.8-.7z"/>
 <path class="st" id="st-AZ" data-abbr="AZ" data-name="Arizona" data-x="206.9" data-y="393.2" data-adj="CA NM NV UT" role="img" aria-label="Arizona: coming soon" d="M145.1,407l.6-.3 1.4,.4 1.7-.2 .1-.8 1.4-1 .4-1.3-.5-3-1.6-.2-1.2-.5-.4-1.5 .8-1.3 .5-2.4-.8-1 .8-1.2-.3-1 1.9-.2 .3-.6 1.5-1.5 .7-.3 .4-2.9 .7-.2 .1-3.6 .6-.3-.3-1.6 2.2-1.8 .7-1.7 1.9-.3 1.4-.6 2.1-1.5 .6-1-.5-1.1-.9-.6-1.6-2.3-.9-.3 .4-1.6-.6-1.6 .2-.4-.4-2.5-1.2-1.4-.4-1.7-.7-1 .6-2.9 .9-1.5-.6-.7 1.3-.5 .3-.7 .3-3.7-.2-2-.6-2 1-2.7-.5-1 0-1.4 .4-1-.1-1.2 .5-1 .6-.3-.8-1.8 .4-1.9-.2-1.4 .4-.3 2.3-.2 .9-.3 1,.2 .1,.5 2.4,.2 .9,1.7-.2,.4 1.1,1.2 1.6,.1 2.2-3.2 .4-.2 .9-4.5 1-6 1.5-7.7 8.7,1.7 18,3.2 19.9,3.4 16.2,2.5 .5,.2 15,2.2 10.3,1.5-5.1,37.1-1.9,13.4-4.7,34.4-1.5,10.7-4.6,32.7-18.1-2.7-8.8-1.3-11.7-1.8-31.9-18.4-4.6-2.6-29.4-17.8 .6-1.2 0-1.5 1-.6 1.2-1.4z"/>
-<path class="st" id="st-FL" data-abbr="FL" data-name="Florida" data-x="784.9" data-y="518.4" data-adj="AL GA" role="img" aria-label="Florida: coming soon" d="M814.6,594.5l.9-1.4 .4,.6-.8,1-.5-.2zM812.7,596l.6-.9 .5,.5-1.1,.4zM807.4,599l3.6-2.3 .5,.5-3,2-1.1-.2zM793.7,604.2l1.1-2.2 3-2.2 1.6-1.5 1.1-.6 3,.8 .5,1 1.1,.6-3.1,1.6-.3-.4-2,.4-.1,.5-3.2,1.9-2.6,.7-.1-.6zM789.6,605.4l2.5-1-.3,1.1-2.2,.4 0-.5zM786.4,605.5l.4-.8 .8,0-.1,.9-1.1-.1zM777.4,558.3l.5,.3 1.9,3.8 2,.8 .5-.4 1,.3-1.6,.8-2.2-1.2-1.9-3.4-.2-1zM770.3,606.2l1.1-.4 .4,.4-1.5,.4 0-.4zM720.4,495.2l2-1.1-.3,.9-1.5,.7-.2-.5zM710.8,468.8l.5,1.4 1,1 .2,1.6 .7,1.4 1,.8 26.5-1.8 7.2-.5 17.9-1.2-.3,.5 .8,1.3 .1,1.4 .9,1.3 2.4-.4 .2-2.7-.1-1.9-1.1-2 0-3 1,0 .3-1.1 1.1,0 .6,.5 1.2-.1 1.8,.8 1.3-.2 2.3,.4 .9-.5 .9,.3 .4,.2 .1,2.2 .4,1.7 .6,.9 1.2,4.6 2.5,6.6 1.3,2.3 .4,1.7 2.6,4.8 3.2,5.2 2.1,3.3 6.5,8 3.2,3.4 1.5,2.6-1.1,1.3 0,2.3 .8,2.9 .8,1.8 1.6,2.6 3.3,4.7 2.7,5.1 1.3,2.5 2.5,3.9 .2,.6 1.8,3 2.1,4.7 .7,5.1 0,2.8 .3,4.1 .1,4 .7,5.5-.1,4-.4-1.2-.7-.4-.9,.8-.3,1.9-.4,.6 .1,1-.4,.9 .1,1.5 .5,1.5 .4,.2-.4,1.1-.7,.6 .2,.7 1.5-1 1.6-4.9-.2,2.5-1.8,4.6-.4,1.7-3.7,5.1-1.5,1.5-.3-.1 3-3.7 .4-1.1 .2-2.2-2.1-.1-2.4,.9-1.6,1.1-1.4-.6-1.3,.4-.4,.9-3.6,1-1.4-.8-.8-1.2 .1-2.5 .5-.2-1.4-2.6-1-.8 0-.7-1-1.3-.6-.2-.7-1.6-1.2,.2-1-1.9-1.8-.3-3.5-1.6-1.2,1.2-1.6-2.2-1.5-2.7-1.3-4.5-1-1.8-1-.9-2.3-1.1-.2-.9-1,.2 .3,.8-.9,.3-1.2-3.3-1-.9 1-.5 .8,.6 .3-3.1-.3-1.7-.7-.2 .1-1.5-.8,.2-1.1,1 1,2.7-2,.9-.2,1-.2-1.4-.6-.9-1.5-1.6-2.4-3.1-.9-1.8-2.3-3.2-2.9-2.9-1.3-2 .9,.8 .9-.7 1.1-1.8 1.7-3.7 .8-.5 .6-1.8-.6-1.3-1.6-.2 .7,2.1-1.8-.3 .4-.8-.7-1.9-2.9-1 .2,1.3-.7,.6 1.2,.6 .9,0 1.1,2-.6,.9 0,1.6-1.6,.5 .4,1.6-.5,.3-.4-2.1-1.3-1.7-.9-.6-.6-1.4 0-3-.5-1.2-.7-3.1 .6-.1 .2,1.7 .6,1.7 .6,.1-.2-1.7-.6-.5 .7-1.5 1-5.1 0-3.6-.6-1.2 0-1.1-1-.4 .2-.9-.9-2 .6-1.3-1.8-2 .2-.6-.7-1-.8,.1 .1-1.6-.5-.2-3.4,0-1,1.2-.9-1.8-.2-1.2-1.6-.3-.3-1.2-1.1-1.6-1.5-.2-.5-.8-1.8-.7-.3-2.1-.5-1.3-.8,0-1.7-.8-1.2-1.3 0-.6-1.3-1.6-1-.7-2.2-.9-2.9-1.1-2-1.2-1.9,.5-.6,.5-2.3-.3 .1,.7-1.7,1.6 .8,1.8-.2,.7-1.7-.1-.4-.4-1.6,.6-2.3,2.2-.5,0-3.6,2.9 .2-1.2-.8-.2-1.4,1.8-2.5,.2 1.1,.9 .1,.7 1.2,.3 4-2.3 1.7-1.8 .2,.2-1.5,1.8-4.9,3-3.7-1.7-1.4,0-1.2,.7-1-1.7-.7-2 .5-1.1 .3,2 .5,1.7 .6,.4 .6-.9-.1-1.6-1.5-2.2-.9-.8-1.7-.3-1.1-.7-1.3-1.2-2-.7-1.7-1.2-2.1-1.1-2.5-1-4.5-1.2-2.8-.4-5.3,0-2.3,.3-3.2,.8-4.5,1.4-2.2,.5-.5-.1-4.3,1.4 1-.6-.6-.3 .8-.7 .3-1.5 1.1-.6-.9-.5-.8-1.2 .8-2.8-.3-1-2.6-1.3-.5-.9-1.7-1.7 .7-2.3-.3-.7 8.8-.9 12-1 12.1-1.3 17.2-2z"/>
 <path class="st" id="st-GA" data-abbr="GA" data-name="Georgia" data-x="743.8" data-y="438.7" data-adj="AL FL NC SC TN" role="img" aria-label="Georgia: coming soon" d="M689.2,379.7l4.1-.4 8.1-1.1 11.3-1.4 12.9-1.6-.1-.1 9.4-1.4-.1,1.4-1.9,1.7-.4,1.3-.9,.9-.4,1.4 .5,1.1 2.1,1.3 1.2,0 1.7,1.8 1.7,.8 1.1-.5 1.6,.5 .8,2 .8,.5 1.1,1.5 .6,2 1.1,.9 .9,1.3 1,.8 .9,1.8 .6-.1 2.2,1.6 1.5,.4 1.9,1.5 1.5,2.7 1.3,.8 .5-.2 1.2,.5 1.4,1.6 1.5,.8-.3,1.9 .8,.8 1.2,.2 .1,1.3 1,.7 .7-.2 .3,1.3 1.2,.8 1.8,.2 .9,.8 1.7,.8 0,1.6 .9,.9-.2,.4 1.2,.8 0,1.2 .5,.8-.2,1 .8,1.1-.3,.5 1.1,1.1 1.7,.2 1.9,1.8-.1,.7 2.2,3.1-.6,1.1 1,1.1 .2,1.6 1.1,.5 1.1-.5 1.7,1.1 .8,.1 .8,.1-.1,1.3-.8,.7-.8-.2-.2,1 .6,0-.9,1.4-1.4-.2-.1,1.1 .8,0-.4,1.3-1,1.2-1.2,0 .7,.8 .6-.2 .2,1.7-.5,1.6-1.6,.3-.1,.5 1.2-.3 .5,.4-1.4,3.7 .4,1.7-.1,1.9-.4,.1-.8,1.7-.6,.2 0,2.7-1.2,1.1 1.3,.2 .3-.5 .3,1.6-.4,2.3-.1,1.6 .4,.7-.9-.3-.9,.5-2.3-.4-1.3,.2-1.8-.8-1.2,.1-.6-.5-1.1,0-.3,1.1-1,0 0,3 1.1,2 .1,1.9-.2,2.7-2.4,.4-.9-1.3-.1-1.4-.8-1.3 .3-.5-17.9,1.2-7.2,.5-26.5,1.8-1-.8-.7-1.4-.2-1.6-1-1-.5-1.4-.9-2.4-1.6-1.6-.4-2 .4-.5-.2-1.5 .3-1.6-.2-.9 .4-1.2-.5-2.2-1.5-1.6 0-.8-.7-2.4 1-2.4 .2-1.7 0-1.7-.4-1.1 .8-1.1 1.4-1.1 .7-1.1-.9-.7-1.4-.4 .5-2.3-.7-.6-.4-1.6-1.4-1.2-.8-1.3-.6-2.9-1-.8 .2-.7-.6-.4-9.2-33-3.4-11.6-.7-2.7z"/>
 <path class="st" id="st-IN" data-abbr="IN" data-name="Indiana" data-x="665.9" data-y="254.4" data-adj="IL KY MI OH" role="img" aria-label="Indiana: coming soon" d="M640.3,229.8l1,.7 1.2-.2-.3,.9 2.7,.2 2.3-.8 3-1.7 1.7-1.3 17.3-1.8 16.4-1.9 .2,1.5 2.7,22 1.1,9.6 1.1,11.2 1.8,16.1-1.2,1.4 1.2,1.2 .2,.8-.5,1.4 1.5,.2-.5,1.1 .3,1.2-1.3-.1-1.5,.5-3.2,2.5-1.4-.8-1-.2-2.2,.6-.3,.9 1,3.2-1.2,1.9-1.8,.9-.6,2.7-1.3,1.4-1-.3-.6,.3-.3,1.3-.8,1.5 .2,1.7-.2,1.4-.4,.5-1.4,.5-.1,.8-1.3-1.1-1.2,.1-1.8-1.1-.2-1.6-1.4-1.2-.4,.8 .8,.1-1.2,1.3-1.1-.2 .6,.7-.2,.8-1.2,.3 .1,1.7 .4,.9-1.4,.3-.2,1.5-1,.1 .2-1.2-1.3,.5-.6-.4-.9-1.7-1.1,.2-.7,1-2.3,1.1-.4,2.5-1,.5-.7-1.3-.7,0-3.3-1.8-1.3,0-1,.9-1.6-1.5-.5,1.1 .7,1-.2,1.2-1.1,.2-.3-1.7-2.6,.9-1.4-1-.5,.8 .7,1.9-.6,.8-1.5-.5-1.4-2.3 1.5,.1-1-.5 .8-1.3-.6-1.4 1.2-.8 .1-.7-.8,.4 .6-1.2 .7-.2-1.1-1.5 .8-2.1 .4,.6 .4-.8 .5,.6 .7-2.1 .4-.2 .8-1.8-.3-.6 1.4-.9-.1-.8 .5-2.3 .4-.6 1.2-.8 .3-1.9-1.1-1.8 .5-2.2-1.3-.7 0-1.6-1.1-1-.3-1.4 1-1.2-.6-1 .3-1.8 .8-.3-1-10.5-1.2-14.9-1.7-19-.8-9.4z"/>
 <path class="st" id="st-KS" data-abbr="KS" data-name="Kansas" data-x="427.1" data-y="308.1" data-adj="CO MO NE OK" role="img" aria-label="Kansas: coming soon" d="M393.9,271.9l10.9,.6 17.6,1 10,.4 11,.4 10.5,.3 10.9,.3 15.1,.2 15.5,.1 14.5,0 1.8,2.1 1.1,.2 .3,.6 1.5,.1 .4-.7 1.5,.2-.2,.6 1.1,.9-.8,.8 .2,.7 .8-.4-.3,1.1-1.2-.4-.3,1.3-1,.5-.6,2.1-.7,0 0,.9 1,.9 .2,.7 1,.6 .8,1.2 .8-.1-.3,.9 .2,1.2 .9,.7 .4,1.3 .8,.2 .7,.7 .9-.3 .4,.6 1.3,0-.3,.8 .1,11.7 .2,15.1 0,4.1 .2,17.7-16,.2-17.8,0-17.2-.2-12.9-.2-15.6-.5-10.7-.4-4.1-.2-14.4-.6-12.2-.5-12.2-.7 .9-14.1 .5-10 1.1-16.2 1.7-28.5z"/>
@@ -565,13 +583,14 @@ details.tbl td.na{color:var(--ink-3);font-style:italic}
           <path class="ring" aria-hidden="true"/>
         </svg>
           <a class="pin" href="#app-co" data-abbr="CO" tabindex="-1" aria-hidden="true" style="left:33.077%;top:47.361%"><img src="icons/colorado.png" width="50" height="50" alt="" decoding="async"></a>
+          <a class="pin" href="#app-fl" data-abbr="FL" tabindex="-1" aria-hidden="true" style="left:80.503%;top:84.984%"><img src="icons/florida.png" width="50" height="50" alt="" decoding="async"></a>
           <a class="pin" href="#app-ct" data-abbr="CT" tabindex="-1" aria-hidden="true" style="left:91.108%;top:31.000%"><img src="icons/connecticut.png" width="50" height="50" alt="" decoding="async"></a>
           <a class="pin" href="#app-il" data-abbr="IL" tabindex="-1" aria-hidden="true" style="left:62.728%;top:43.754%"><img src="icons/chicago.png" width="50" height="50" alt="" decoding="async"></a>
           <a class="pin" href="#app-wa" data-abbr="WA" tabindex="-1" aria-hidden="true" style="left:13.374%;top:9.689%"><img src="icons/washington.png" width="50" height="50" alt="" decoding="async"></a>
           <a class="pin" href="#app-wi" data-abbr="WI" tabindex="-1" aria-hidden="true" style="left:61.056%;top:26.393%"><img src="icons/wisconsin.png" width="50" height="50" alt="" decoding="async"></a>
         </div>
         <div class="tip" aria-hidden="true"></div>
-        <ul class="legend" aria-hidden="true" style="--sw:linear-gradient(90deg,#0E3386 0.0% 20.0%,#203731 20.0% 40.0%,#002868 40.0% 60.0%,#1F4D3A 60.0% 80.0%,#000E2F 80.0% 100.0%);--sw-dark:linear-gradient(90deg,#B3DDF2 0.0% 20.0%,#FFB612 20.0% 40.0%,#FFD700 40.0% 60.0%,#F7C948 60.0% 80.0%,#B3261E 80.0% 100.0%)">
+        <ul class="legend" aria-hidden="true" style="--sw:linear-gradient(90deg,#0E3386 0.0% 16.7%,#203731 16.7% 33.3%,#002868 33.3% 50.0%,#1F4D3A 50.0% 66.7%,#000E2F 66.7% 83.3%,#005F68 83.3% 100.0%);--sw-dark:linear-gradient(90deg,#B3DDF2 0.0% 16.7%,#FFB612 16.7% 33.3%,#FFD700 33.3% 50.0%,#F7C948 50.0% 66.7%,#B3261E 66.7% 83.3%,#F28C28 83.3% 100.0%)">
           <li><i class="key-live"></i>On the web now</li>
           <li><i class="key-soon"></i>Coming soon</li>
         </ul>
@@ -640,6 +659,18 @@ details.tbl td.na{color:var(--ink-3);font-style:italic}
             </div>
             <div class="links"><a class="more" href="https://nickstrom5.github.io/connecticut-eats/explore/" rel="noopener">Search on the web<span class="sr-only"> with Connecticut Eats: Restaurants</span> <span aria-hidden="true">&rarr;</span></a></div>
           </article>
+          <article class="pop" id="pop-fl" data-abbr="FL" style="--bg:#005F68;--ac:#F9C797;--fg:#FFFFFF" tabindex="-1" aria-labelledby="pop-fl-h" hidden>
+            <button class="x" type="button" aria-label="Close Florida Eats: Restaurants"><svg viewBox="0 0 16 16" aria-hidden="true"><path d="M4 4l8 8M12 4l-8 8" fill="none" stroke="currentColor" stroke-width="1.8" stroke-linecap="round"/></svg></button>
+            <div class="row"><img src="icons/florida.png" width="56" height="56" alt="" loading="lazy" decoding="async">
+              <div><p class="w">Florida</p><p class="n" id="pop-fl-h">Florida Eats: Restaurants</p></div></div>
+            <p class="tg">Cuban, stone crab &amp; oyster bar guide to 52,000+ Florida restaurants.</p>
+            <p class="pl">iPhone &amp; iPad · Free</p>
+            <div class="actions">
+              <a class="btn" href="https://nickstrom5.github.io/florida-eats/" rel="noopener">Website<span class="sr-only"> for Florida Eats: Restaurants</span> <svg class="ic" viewBox="0 0 14 14" aria-hidden="true"><path d="M4 3h7v7M11 3 3 11" fill="none" stroke="currentColor" stroke-width="1.8" stroke-linecap="round" stroke-linejoin="round"/></svg></a>
+              <span class="badge soon" title="Coming soon to the App Store"><small>Coming soon to the</small><b>App Store</b></span>
+            </div>
+            <div class="links"><a class="more" href="https://nickstrom5.github.io/florida-eats/explore/" rel="noopener">Search on the web<span class="sr-only"> with Florida Eats: Restaurants</span> <span aria-hidden="true">&rarr;</span></a></div>
+          </article>
       </div>
     </div>
     <div class="plist">
@@ -650,6 +681,7 @@ details.tbl td.na{color:var(--ink-3);font-style:italic}
           <li><a class="pick" href="#app-co" data-abbr="CO" aria-controls="pop-co" aria-expanded="false"><img src="icons/colorado.png" width="44" height="44" alt="" loading="lazy" decoding="async"><span class="pk"><span class="ps">Colorado</span><span class="pa">Colorado Eats: Restaurants</span></span><svg class="go" viewBox="0 0 16 16" aria-hidden="true"><path d="M6 3.5 10.5 8 6 12.5" fill="none" stroke="currentColor" stroke-width="1.8" stroke-linecap="round" stroke-linejoin="round"/></svg></a></li>
           <li><a class="pick" href="#app-wa" data-abbr="WA" aria-controls="pop-wa" aria-expanded="false"><img src="icons/washington.png" width="44" height="44" alt="" loading="lazy" decoding="async"><span class="pk"><span class="ps">Washington</span><span class="pa">Washington Eats: Restaurants</span></span><svg class="go" viewBox="0 0 16 16" aria-hidden="true"><path d="M6 3.5 10.5 8 6 12.5" fill="none" stroke="currentColor" stroke-width="1.8" stroke-linecap="round" stroke-linejoin="round"/></svg></a></li>
           <li><a class="pick" href="#app-ct" data-abbr="CT" aria-controls="pop-ct" aria-expanded="false"><img src="icons/connecticut.png" width="44" height="44" alt="" loading="lazy" decoding="async"><span class="pk"><span class="ps">Connecticut</span><span class="pa">Connecticut Eats: Restaurants</span></span><svg class="go" viewBox="0 0 16 16" aria-hidden="true"><path d="M6 3.5 10.5 8 6 12.5" fill="none" stroke="currentColor" stroke-width="1.8" stroke-linecap="round" stroke-linejoin="round"/></svg></a></li>
+          <li><a class="pick" href="#app-fl" data-abbr="FL" aria-controls="pop-fl" aria-expanded="false"><img src="icons/florida.png" width="44" height="44" alt="" loading="lazy" decoding="async"><span class="pk"><span class="ps">Florida</span><span class="pa">Florida Eats: Restaurants</span></span><svg class="go" viewBox="0 0 16 16" aria-hidden="true"><path d="M6 3.5 10.5 8 6 12.5" fill="none" stroke="currentColor" stroke-width="1.8" stroke-linecap="round" stroke-linejoin="round"/></svg></a></li>
       </ul>
       <p class="else">Every other state: coming soon. <a href="mailto:nick@eatsranked.com?subject=Next%20state%20for%20Eats%20Ranked">Tell us which state</a>.</p>
     </div>
@@ -742,7 +774,7 @@ details.tbl td.na{color:var(--ink-3);font-style:italic}
     </div>
     <nav aria-labelledby="foot-apps">
       <h2 id="foot-apps">Apps</h2>
-      <ul><li><a href="https://chicago.eatsranked.com/" rel="noopener">Chicago Restaurants: Ranked</a></li><li><a href="https://wisconsin.eatsranked.com/" rel="noopener">Wisconsin Eats: Restaurants</a></li><li><a href="https://nickstrom5.github.io/colorado-eats/" rel="noopener">Colorado Eats: Restaurants</a></li><li><a href="https://nickstrom5.github.io/washington-eats/" rel="noopener">Washington Eats: Restaurants</a></li><li><a href="https://nickstrom5.github.io/connecticut-eats/" rel="noopener">Connecticut Eats: Restaurants</a></li></ul>
+      <ul><li><a href="https://chicago.eatsranked.com/" rel="noopener">Chicago Restaurants: Ranked</a></li><li><a href="https://wisconsin.eatsranked.com/" rel="noopener">Wisconsin Eats: Restaurants</a></li><li><a href="https://nickstrom5.github.io/colorado-eats/" rel="noopener">Colorado Eats: Restaurants</a></li><li><a href="https://nickstrom5.github.io/washington-eats/" rel="noopener">Washington Eats: Restaurants</a></li><li><a href="https://nickstrom5.github.io/connecticut-eats/" rel="noopener">Connecticut Eats: Restaurants</a></li><li><a href="https://nickstrom5.github.io/florida-eats/" rel="noopener">Florida Eats: Restaurants</a></li></ul>
     </nav>
     <div>
       <h2>Contact</h2>
